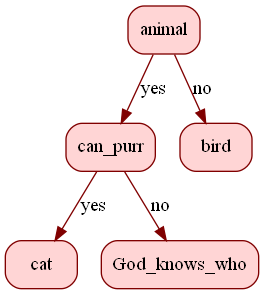
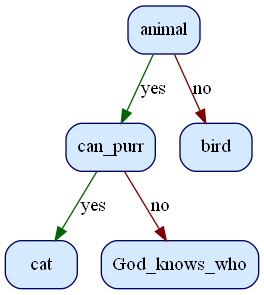
Updated colours

diff --git a/TreeDump.cpp b/TreeDump.cpp
@@ -12,7 +12,7 @@ int graph_dump(const Tree* tree) {
     fprintf(dotfile, "digraph {\n");
     //fprintf(dotfile, "  charset = \"UTF-8\";\n");
     fprintf(dotfile, "  rankdir = HR;\n");
-    fprintf(dotfile, "  node [shape = Mrecord, color = \"#800000\", style = filled, fillcolor = \"#FFD5D5\"];\n");
+    fprintf(dotfile, "  node [shape = Mrecord, color = \"#000066\", style = filled, fillcolor = \"#D5EAFF\"];\n");
 
     node_graph_dump(tree->root, dotfile);
     edge_graph_dump(tree->root, dotfile);
@@ -40,7 +40,7 @@ void node_graph_dump(Node* node, FILE* dotfile) {
 void edge_graph_dump(Node* node, FILE* dotfile) {
 
     if (node->left != 0) {
-        fprintf(dotfile, "  node_%p -> node_%p [label = \"yes\", weight = 1, color = \"#800000\"];\n", node, node->left);
+        fprintf(dotfile, "  node_%p -> node_%p [label = \"yes\", weight = 1, color = \"#006400\"];\n", node, node->left);
         edge_graph_dump(node->left, dotfile);
     }
 
